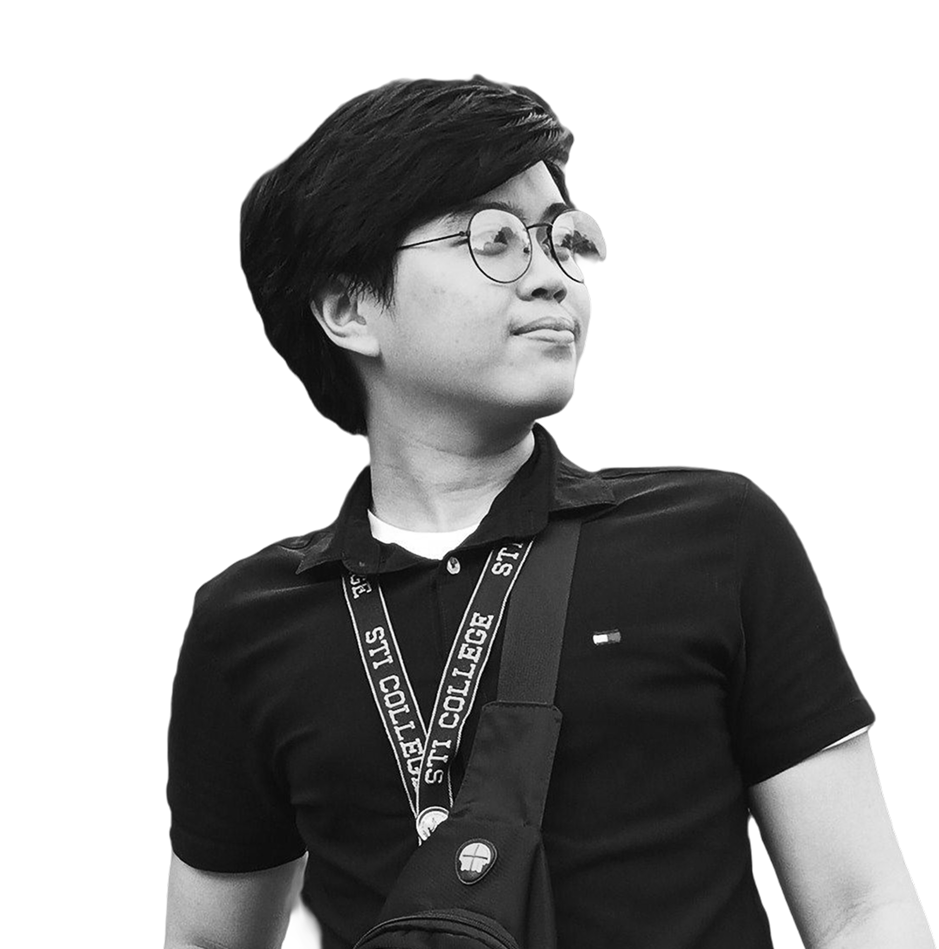
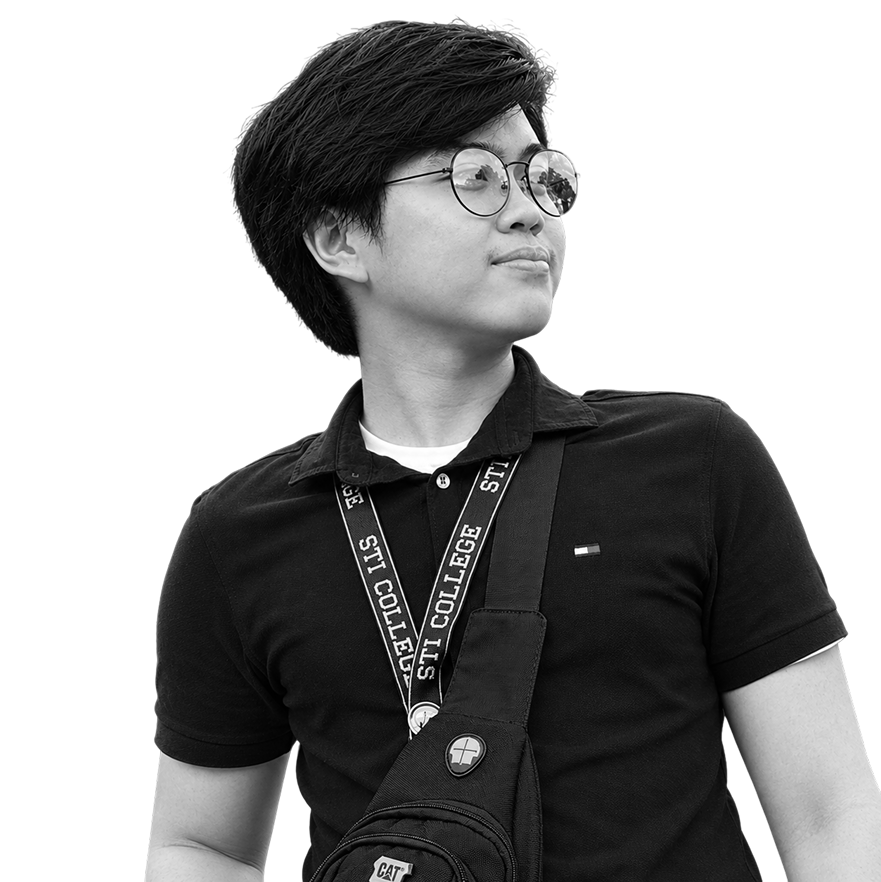
style: update foreground color and updated styling in navbar and hero section

diff --git a/components/hero/hero-section.tsx b/components/hero/hero-section.tsx
@@ -8,11 +8,11 @@ export function HeroSection() {
       aria-labelledby="hero-title"
       className="relative mt-[-7dvh] flex min-h-dvh flex-col lg:mt-[-8dvh] lg:h-dvh lg:overflow-hidden"
     >
-      <div className="grid min-h-0 flex-1 grid-cols-1 overflow-clip px-5 pt-[calc(7dvh+1.25rem)] sm:px-8 md:px-10 md:pt-[calc(7dvh+1.5rem)] lg:min-h-0 lg:grid-cols-[1fr_0.9fr] lg:px-10 lg:pt-[calc(8dvh+1rem)]">
+      <div className="flex-1 grid min-h-0 lg:min-h-0 grid-cols-1 lg:grid-cols-[1fr_0.9fr] overflow-clip px-5 sm:px-8 md:px-10 pt-[calc(7dvh+1.25rem)] md:pt-[calc(7dvh+1.5rem)] lg:px-10 lg:pt-[calc(8dvh+1rem)] text-foreground">
         {/* Left column */}
         <div className="contents lg:col-start-1 lg:flex lg:min-h-0 lg:flex-col lg:justify-between lg:py-2">
           {/* Bio */}
-          <p className="hidden max-w-lg text-sm text-[#1d1d1c] lg:order-1 lg:block lg:text-lg">
+          <p className="hidden max-w-lg text-sm lg:order-1 lg:block lg:text-lg">
             A Computer Science Graduate specialized in Mobile Programming. I
             love to explore new technologies, learn new skills, and adapt to the
             fast-changing tech industry.
@@ -28,11 +28,11 @@ export function HeroSection() {
               <br />
               Developer
             </h1>
-            <div className="order-2 mt-2 flex flex-row items-center justify-between gap-4 md:mt-3 lg:order-1 lg:mb-1 lg:mt-0 lg:flex-col lg:items-start lg:gap-1">
+            <div className="order-2 mt-2 flex flex-row items-center justify-between gap-4 md:mt-3 lg:order-1 lg:mb-1 lg:mt-0 lg:flex-col lg:items-start lg:gap-0">
               <p className="order-1 text-xs lg:text-lg font-semibold uppercase tracking-widest lg:order-2">
                 Adrian M. De Guzman
               </p>
-              <p className="order-2 shrink-0 text-[10px] uppercase tracking-widest text-foreground/60 md:text-sm lg:order-1">
+              <p className="order-2 shrink-0 text-[10px] md:text-sm uppercase tracking-widest text-foreground/50 lg:order-1">
                 Malabon City, Metro Manila
               </p>
             </div>
@@ -43,7 +43,7 @@ export function HeroSection() {
             <p className="max-w-60 md:max-w-sm text-xl leading-6 md:leading-8 md:text-3xl lg:text-3xl">
               Available for select collaborations and project development.
             </p>
-            <p className="mt-2 text-[9px] uppercase tracking-widest text-foreground/60 md:mt-3 md:text-[10px]">
+            <p className="mt-2 text-[9px] md:text-[10px] uppercase tracking-widest text-foreground/50 md:mt-3">
               UI Systems · Web Development · AI Automation · Consultation
             </p>
             <div className="mt-3 flex flex-wrap gap-3 md:mt-4">
@@ -59,10 +59,10 @@ export function HeroSection() {
 
         {/* Portrait */}
         <div className="relative order-3 mt-6 flex items-end justify-center md:mt-8 lg:col-start-2 lg:mt-0 lg:min-h-0 lg:justify-start">
-          <div className="relative lg:absolute lg:-left-25 aspect-square w-[94vw] md:w-[80vw] lg:h-full lg:max-h-full lg:w-full">
+          <div className="relative lg:absolute lg:-left-25 aspect-square w-[94vw] md:w-[80vw] lg:h-[90%] lg:max-h-full lg:w-full">
             <div
               aria-hidden
-              className="absolute lg:top-0 lg:left-15 lg:h-[65vh] inset-0 aspect-square rounded-full bg-[#111110]"
+              className="absolute lg:-top-15 lg:left-15 lg:h-[70vh] inset-0 aspect-square rounded-full bg-foreground"
             />
             <Image
               src="/hero.png"
@@ -70,7 +70,7 @@ export function HeroSection() {
               fill
               priority
               sizes="(max-width: 768px) 94vw, (max-width: 1024px) 80vw, 560px"
-              className="scale-110 object-contain object-center"
+              className=" object-contain object-bottom"
             />
           </div>
         </div>

diff --git a/components/hero/bottom-links.tsx b/components/hero/bottom-links.tsx
@@ -2,7 +2,7 @@ import { socials } from "@/data/site";
 
 export function SocialBar() {
   return (
-    <div className="z-10 flex h-[12dvh] shrink-0 items-center justify-end bg-[#0e0e0d] text-[#e9e6de] pr-6 sm:pr-8 md:pr-[12vw] lg:pr-[35vw] py-4">
+    <div className="z-10 flex h-[12dvh] shrink-0 items-center justify-end bg-foreground text-[#e9e6de] pr-6 sm:pr-8 md:pr-[12vw] lg:pr-[35vw] py-4">
       <ul className="border-l border-white/50 pl-4">
         {socials.map((s) => (
           <li key={s}>

diff --git a/components/navbar.tsx b/components/navbar.tsx
@@ -20,7 +20,7 @@ export function NavBar() {
       </a>
       <nav
         aria-label="Primary"
-        className="hidden bg-[#1b1b1a] text-[#ede9df] rounded-full pl-5 pr-5 sm:pl-10 sm:pr-10 py-2.5 items-center gap-5 sm:gap-14 lg:flex"
+        className="hidden bg-foreground text-[#ede9df] rounded-full pl-5 pr-5 sm:pl-10 sm:pr-10 py-2.5 items-center gap-5 sm:gap-14 lg:flex"
       >
         {navLinks.map((link) => (
           <a

diff --git a/app/globals.css b/app/globals.css
@@ -2,7 +2,7 @@
 
 :root {
   --background: #e9e6de;
-  --foreground: #171717;
+  --foreground: #151515;
   color-scheme: light;
 }
 
